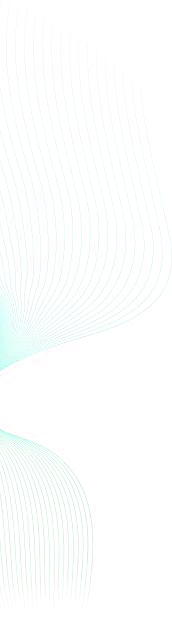
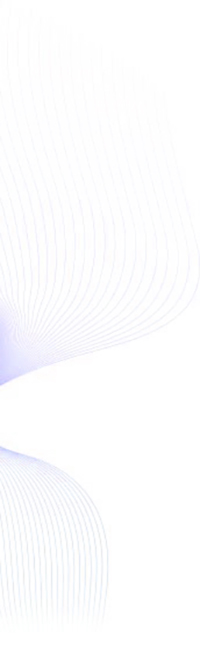
Add files via upload

Changed region(s): [[0.0, 0.4864, 0.1453, 0.608], [0.0, 0.6688, 0.0581, 0.6992], [0.0581, 0.6992, 0.0872, 0.7296]]

diff --git a/index.html b/index.html
@@ -69,7 +69,7 @@
             <!-- ***** Logo End ***** -->
             <!-- ***** Menu Start ***** -->
             <ul class="nav">
-              <li class="scroll-to-section"><a href="#top" class="active">Home</a></li>
+              <li class="scroll-to-section"><a href="#top" class="header-active active">Home</a></li>
               <li class="scroll-to-section"><a href="#about">About</a></li>
               <li class="scroll-to-section none22"><a href="#experience">Experience<span class="none"> and Education</span></a></li>
               <li class="scroll-to-section"><a href="#blog">Portfolio</a></li>
@@ -602,7 +602,7 @@
               </div>
               <div class="col-lg-5">
                 <div id="map">
-                  <iframe src="https://www.google.com/maps/embed?pb=!1m18!1m12!1m3!1d61979.562249734!2d100.51335024999999!3d13.8556803!2m3!1f0!2f0!3f0!3m2!1i1024!2i768!4f13.1!3m3!1m2!1s0x30e29b6bae759d47%3A0xa96cffdce5a933fa!2z4LmA4LiX4Lio4Lia4Liy4Lil4LiZ4LiE4Lij4LiZ4LiZ4LiX4Lia4Li44Lij4Li1IOC4reC4s-C5gOC4oOC4reC5gOC4oeC4t-C4reC4h-C4meC4meC4l-C4muC4uOC4o-C4tSDguJnguJnguJfguJrguLjguKPguLU!5e0!3m2!1sth!2sth!4v1658306304961!5m2!1sth!2sth" width="100%" height="636px" style="border:0;" allowfullscreen="" loading="lazy" referrerpolicy="no-referrer-when-downgrade"></iframe>
+                  <iframe src="https://www.google.com/maps/embed?pb=!1m18!1m12!1m3!1d61979.562249734!2d100.51335024999999!3d13.8556803!2m3!1f0!2f0!3f0!3m2!1i1024!2i768!4f13.1!3m3!1m2!1s0x30e29b6bae759d47%3A0xa96cffdce5a933fa!2z4LmA4LiX4Lio4Lia4Liy4Lil4LiZ4LiE4Lij4LiZ4LiZ4LiX4Lia4Li44Lij4Li1IOC4reC4s-C5gOC4oOC4reC5gOC4oeC4t-C4reC4h-C4meC4meC4l-C4muC4uOC4o-C4tSDguJnguJnguJfguJrguLjguKPguLU!5e0!3m2!1sth!2sth!4v1658306304961!5m2!1sth!2sth" class="contact-map" allowfullscreen="" loading="lazy" referrerpolicy="no-referrer-when-downgrade"></iframe>
                 </div>
               </div>
               <div class="col-lg-7">

diff --git a/css/nutdesign.css b/css/nutdesign.css
@@ -1006,13 +1006,14 @@ Banner Style
 
 .main-banner:before {
   content: '';
-  background-image: url(../images/slider-right-dec.jpg);
+  background-image: url(../images/slider-right-dec.png);
   background-repeat: no-repeat;
   position: absolute;
   right: 0;
   top: 60px;
-  width: 964px;
+  width: 1087px;
   height: 797px;
+  z-index: 1;
 }
 
 .main-banner .left-content {
@@ -1892,7 +1893,6 @@ contact
   margin-bottom: 80px;
 }
 
-
 form#contact:before {
   background-image: url(../images/contact-top-right.png);
   position: absolute;
@@ -1937,6 +1937,9 @@ form#contact #map iframe {
   border-bottom-left-radius: 23px;
   margin-bottom: -7px;
   position: relative;
+  width: 100%;
+  height: 636px;
+  border: none;
   z-index: 2;
 }
 
@@ -2043,8 +2046,9 @@ Footer Style
 */
 
 footer {
-  background-image: url(../images/footer-bg.jpg);
-  background-position: center center;
+  /*background-image: url(../images/footer-bg.jpg);
+  background-position: center center;*/
+  background-color: #0f878f;
   background-repeat: no-repeat;
   background-size: cover;
   margin-top: 130px;
@@ -2077,6 +2081,9 @@ responsive
   }
   .header-area .main-nav .nav li:last-child {
     padding-left: 20px;
+  }
+  .brNone{
+    display: none !important;
   }
 }
 
@@ -2263,8 +2270,18 @@ responsive
   .fill-form {
     padding: 80px 30px 80px 30px;
   }
+  form#contact #map iframe {
+    border-radius: 20px;
+    height: 200px;
+  }
   form#contact {
     padding: 30px;
+  }
+  footer {
+    margin-top: 30px;
+  }
+  .brNone{
+    display: inline;
   }
 }
 
@@ -2303,6 +2320,5 @@ responsive
   height: 25px;
   top: -3px;
   left: -49px;
-
 }
 
